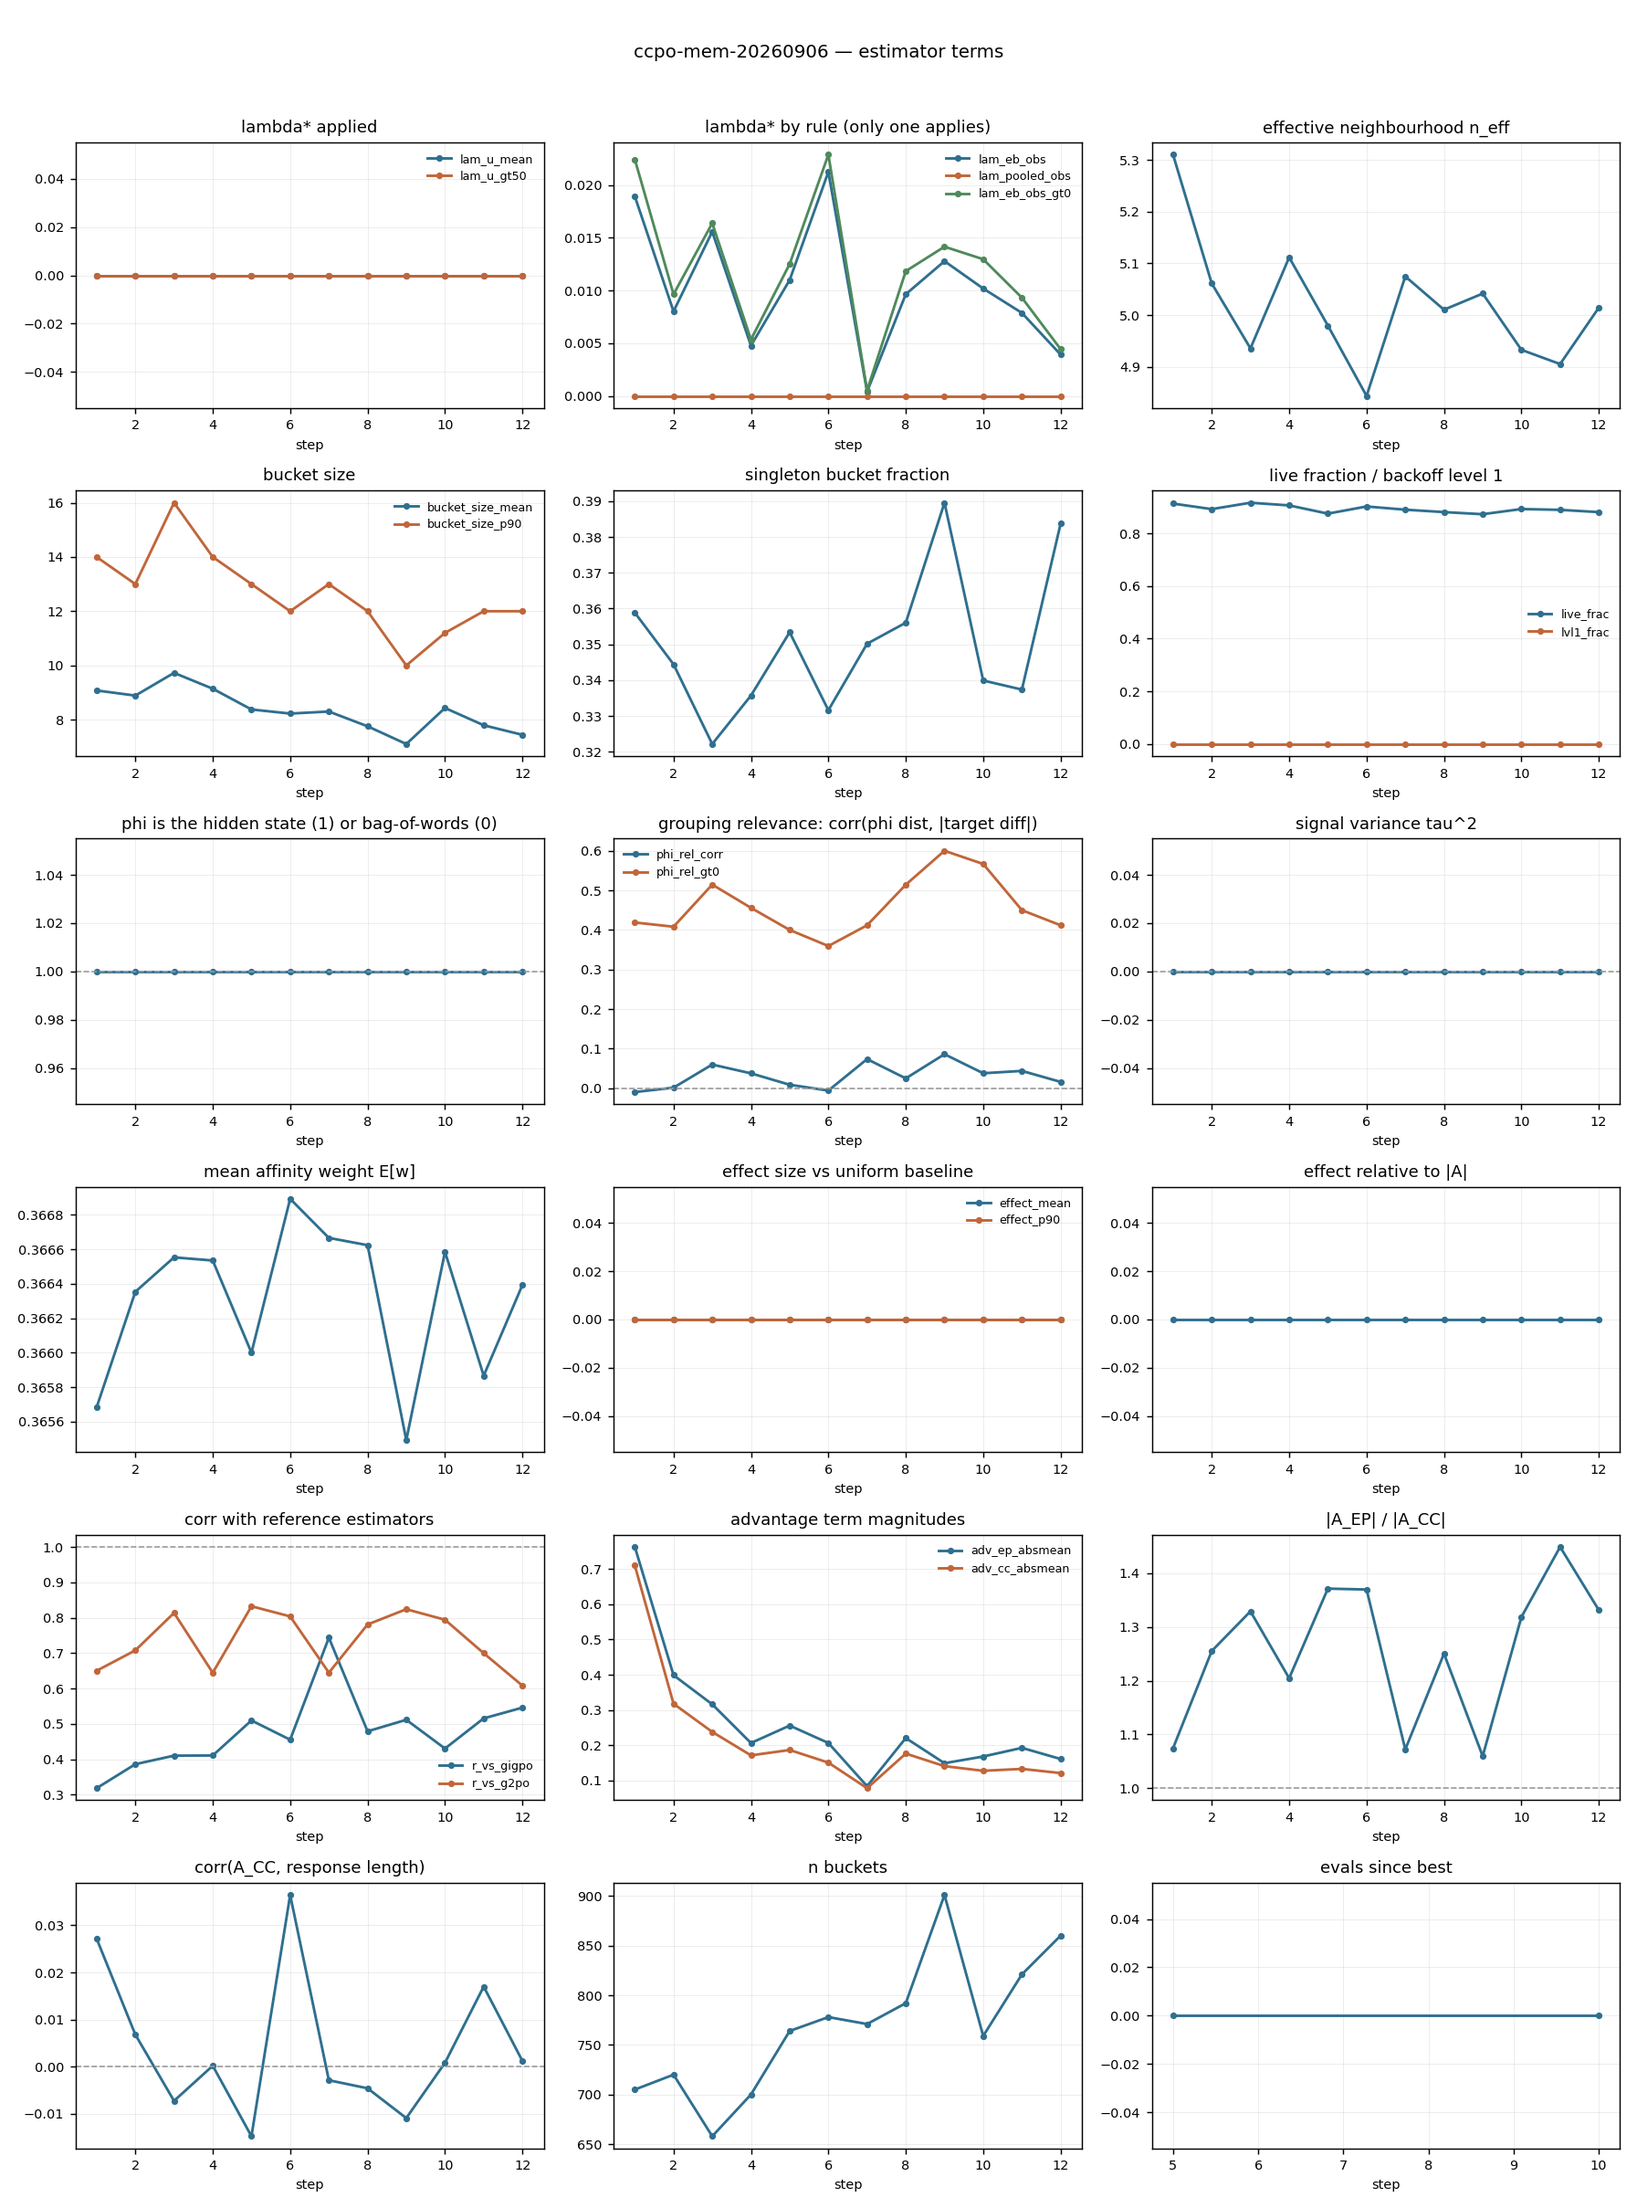
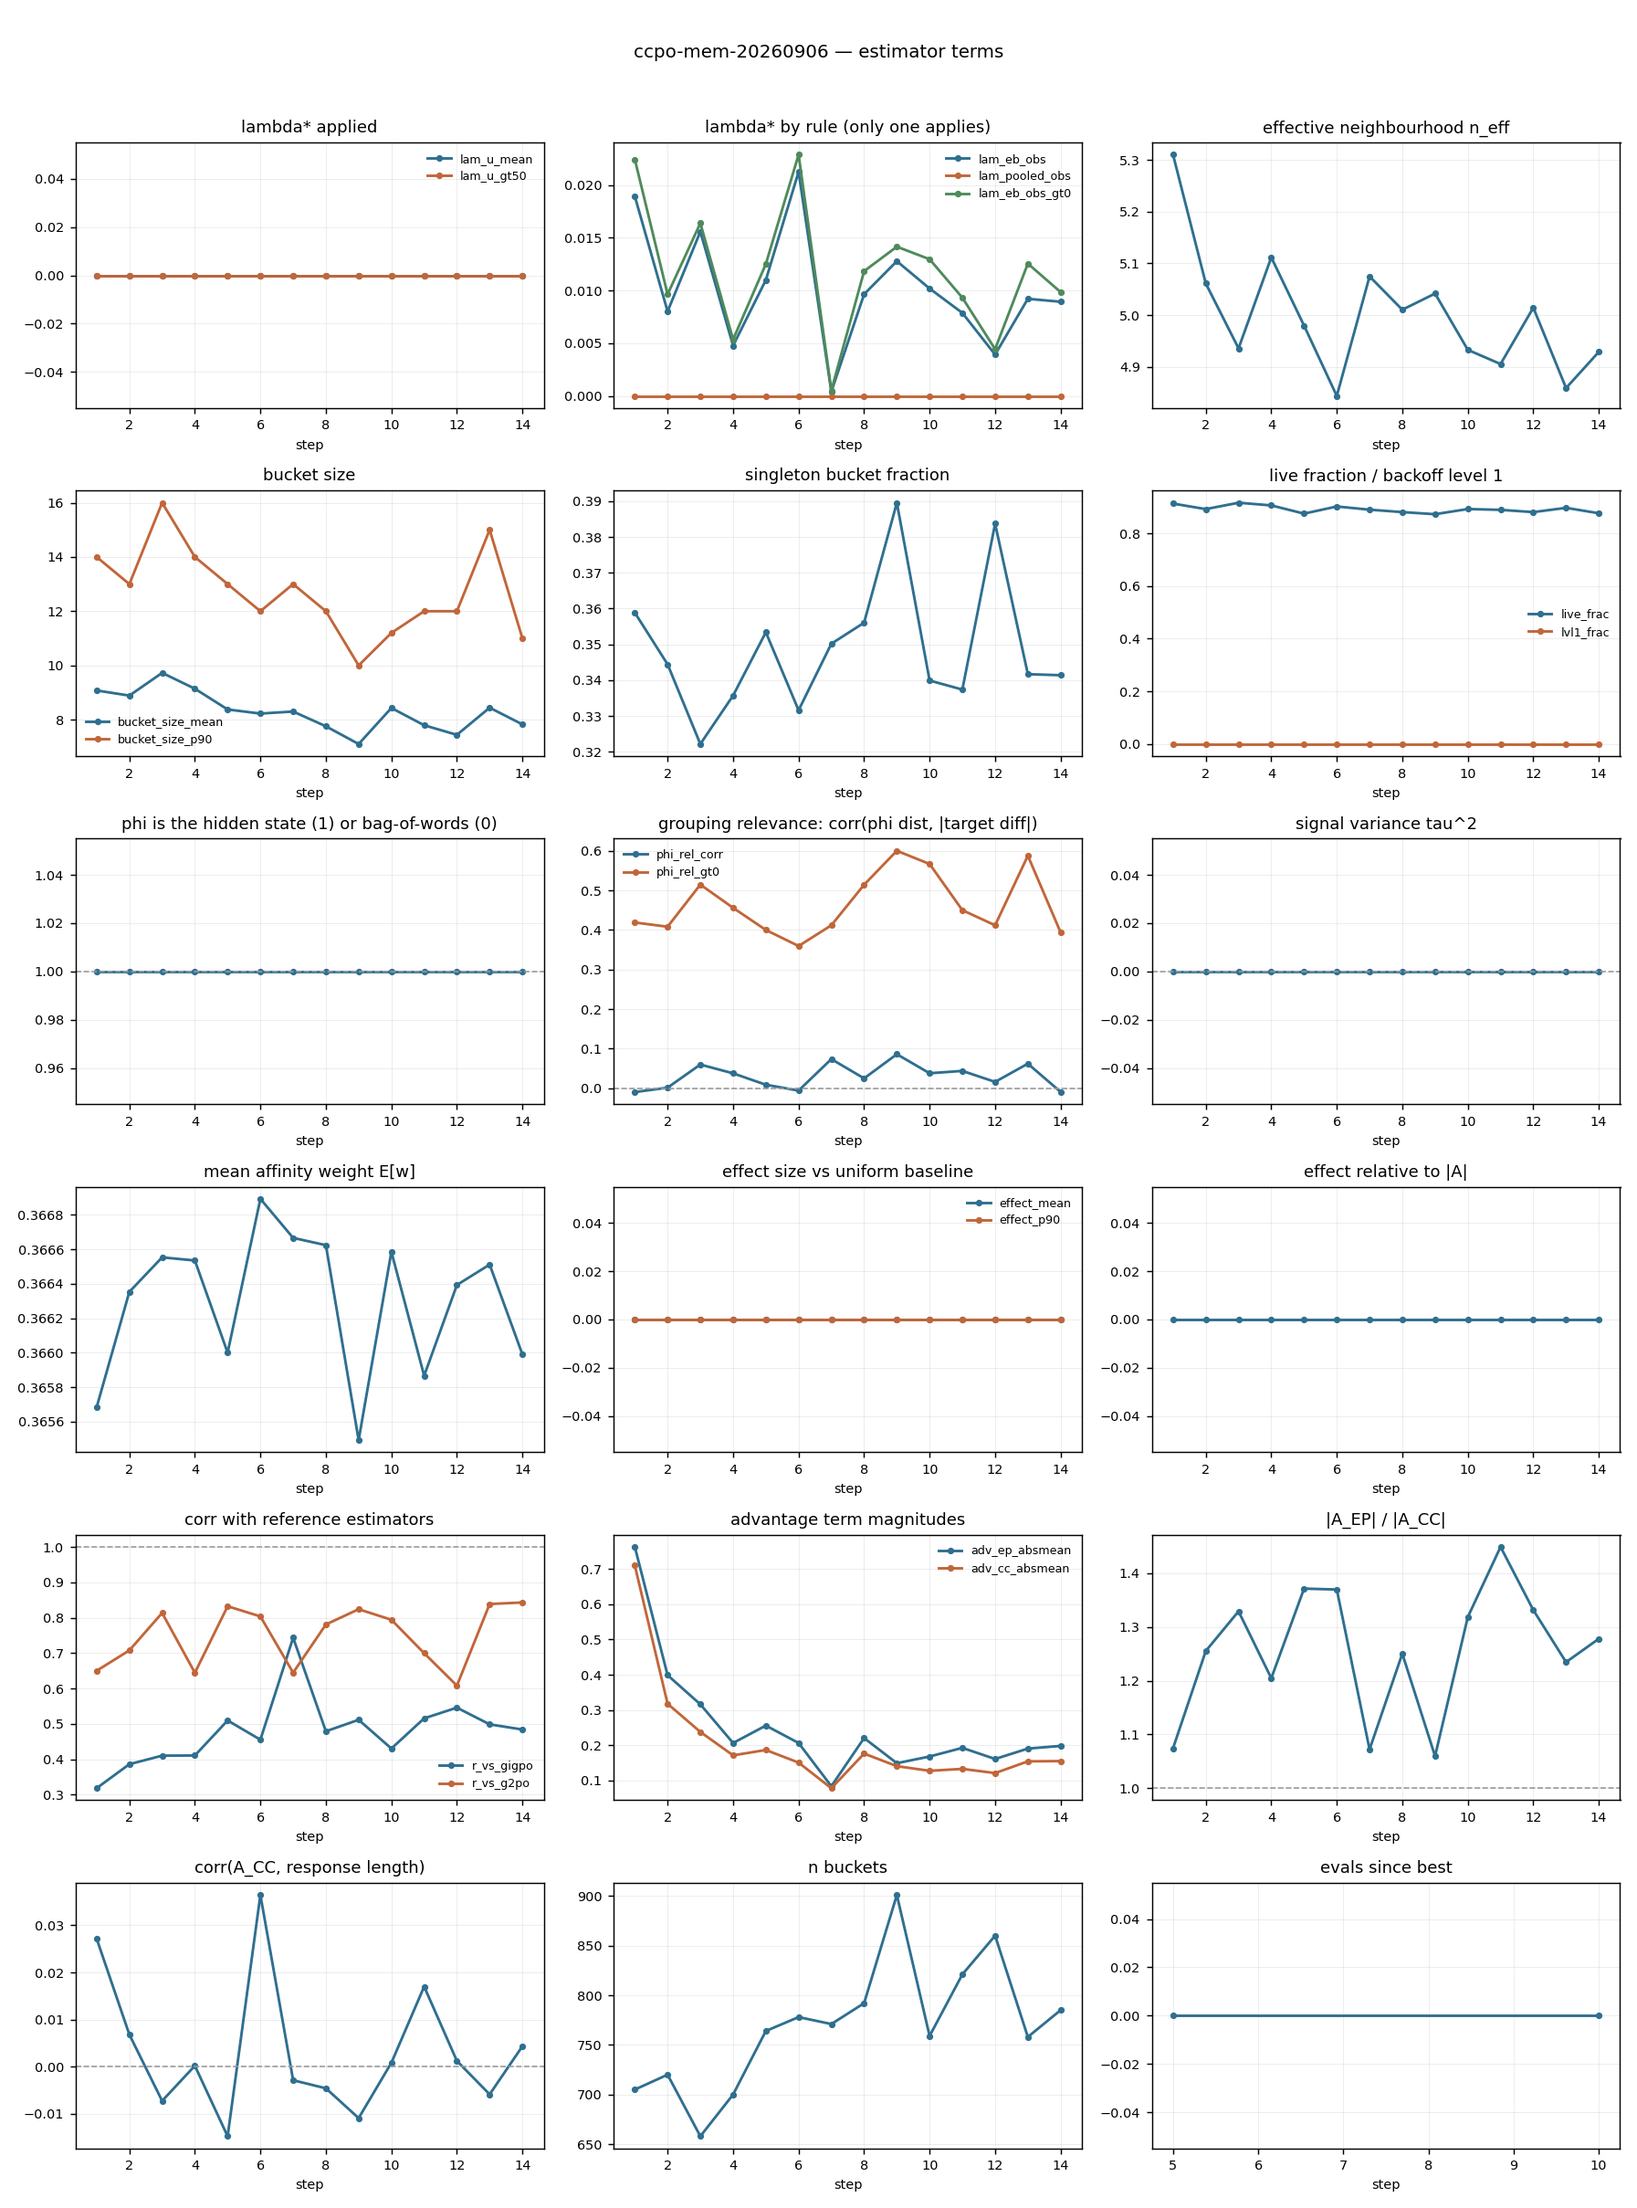
hypothesis.md: H-A final at n=14 -- the premise is true and negligible
phi_rel_corr mean +0.0306, sd 0.0318, 95% CI [+0.0140, +0.0473] excluding zero;
bucket fraction 0.464 against 0.500 chance; no trend (p wandered 0.046, 0.112,
0.312, 0.095, 0.324 as points arrived); implied R^2 0.00094.

Three conclusions that only make sense together. phi-similarity DOES predict
return-similarity, so the categorical "no signal" claim this file made twice is
false. There is no trend, so the apparent climb through step 10 was a small-sample
artefact. And it is negligible: r=0.031 gives R^2=0.0009, so even the sharpest
relevance-driven rule would set lambda ~0.001. lambda = 0 is the right answer, not
a failure of the rule.

The mean being positive while only 46% of buckets clear zero is the heavy-tail
signature from H-G, which remains the one structurally interesting thread.

Claude-Session: https://claude.ai/code/session_01TnVw4qcXikRNMjxhmmuJXY

diff --git a/experiments/hypothesis.md b/experiments/hypothesis.md
@@ -176,7 +176,7 @@ Note `V(g)` carries trajectory-length information through `γ^(T−t)`, so watch
 
 ## Settled — refuted
 
-### [~] H-A. Uncertainty should measure *grouping relevance*, not penalise within-bucket variance
+### [!] H-A. Uncertainty should measure *grouping relevance*, not penalise within-bucket variance
 
 > **SETTLED 2026-09-06 by `ccpo-mem-20260906` — the second branch.**
 > φ-distance does **not** predict target-distance inside a bucket — measured
@@ -199,7 +199,36 @@ Note `V(g)` carries trajectory-length information through `γ^(T−t)`, so watch
 > | `phi_rel_corr` | +0.0057 | +0.512 | 0.092 | +0.020 -> +0.043 |
 > | frac buckets > 0 | +0.0151 | +0.576 | **0.046** | 0.440 -> 0.490 |
 >
-> **Caveat added at step 11 — that significance was fragile.** One more point moved
+> **FINAL, n=14 — the premise is true and negligible.** Enough points to stop
+> re-litigating:
+>
+> ```
+> phi_rel_corr    mean +0.0306  sd 0.0318  95% CI [+0.0140, +0.0473]   excludes zero
+> frac buckets>0  mean 0.464                                           below 0.50 chance
+> trend p-value   s10 0.046 -> s11 0.112 -> s12 0.312 -> s13 0.095 -> s14 0.324
+> implied R^2     0.00094   ->  an R^2-driven lambda of ~0.0009
+> ```
+>
+> **Three conclusions, all needed together:**
+>
+> 1. **φ-similarity does predict return-similarity.** The mean is +0.031 with a 95%
+>    CI that excludes zero. The categorical claim "φ carries no signal" — which this
+>    file asserted twice — is **false**.
+> 2. **There is no trend.** The apparent climb through step 10 was a small-sample
+>    artefact; the p-value wandered 0.046 -> 0.32 -> 0.095 -> 0.32 as points
+>    arrived. The relevance is roughly constant, not growing with training.
+> 3. **It is negligible.** r = 0.031 means R^2 = 0.0009. Even the sharpest possible
+>    relevance-driven shrinkage rule — the one proposed in this entry — would set
+>    λ ~ 0.001. λ = 0 is not a failure of the rule; it is the right answer, arrived
+>    at from a rule that happens to be testing something else.
+>
+> The mean being positive while only 46% of buckets exceed zero is the heavy-tail
+> signature from H-G: a minority of buckets carry the signal. That remains the one
+> structurally interesting thing here, and it is still gated on H-F.
+>
+> ---
+>
+> *(superseded) Caveat added at step 11 — that significance was fragile.* One more point moved
 > the bucket-fraction trend from p = 0.046 to **p = 0.112**, and the correlation
 > trend from 0.092 to 0.085. With n ~ 10 a single observation flips the verdict, so
 > "significant at the 0.05 level" was over-read. The *direction* is stable across
